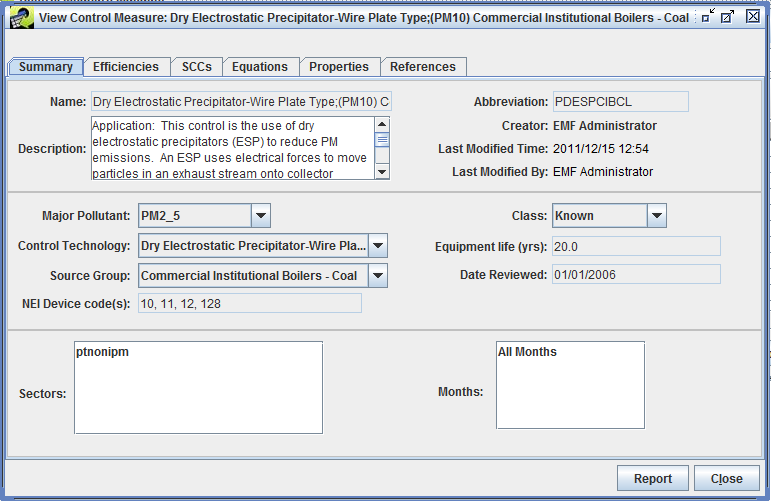
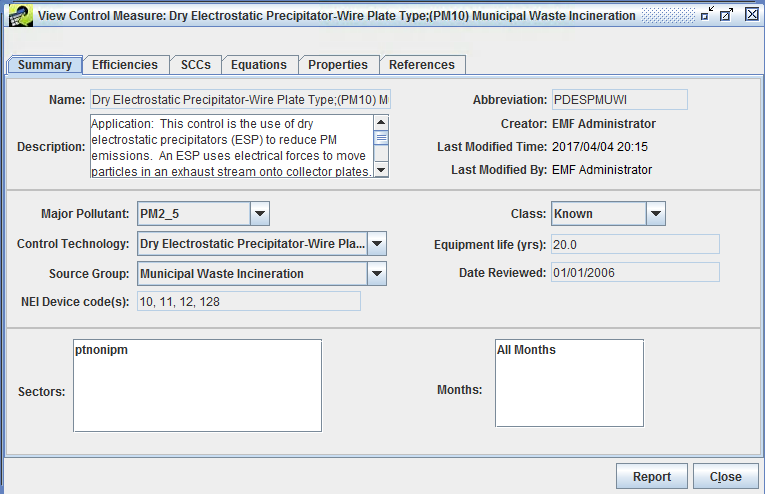
changed control measure example

Changed region(s): [[0.0, 0.0, 1.0, 1.0], [0.6614, 0.8502, 0.8418, 0.8806], [0.5712, 0.7591, 0.6314, 0.8198]]

diff --git a/EMF/deploy/doc/guides/cost/ch3_control_measure_manager.md b/EMF/deploy/doc/guides/cost/ch3_control_measure_manager.md
@@ -170,7 +170,7 @@ Next, change the **Font to Arial, the Style to Bold, the Size to 14, the Horizon
 
 In this section you will learn about viewing the detailed data for a control measure.
 
-23\. Before you can open a measure to view its data, you must select a measure of interest. For example, on the Control Measure Manager, make sure the Pollutant Filter is set to PM10, and then in the table locate the control measure and Source Group named **"Dry Electrostatic Precipitator-Wire Plate Type;(PM10) Commercial Institutional Boilers - Coal"**.
+23\. Before you can open a measure to view its data, you must select a measure of interest. For example, on the Control Measure Manager, make sure the Pollutant Filter is set to PM10, and then in the table locate the control measure and Source Group named **"Dry Electrostatic Precipitator-Wire Plate Type;(PM10) Municipal Waste Incineration"**.
 
 Hint: Using a filter on the name field to show measures with names that include "Wire" may make it easier to find.
 
